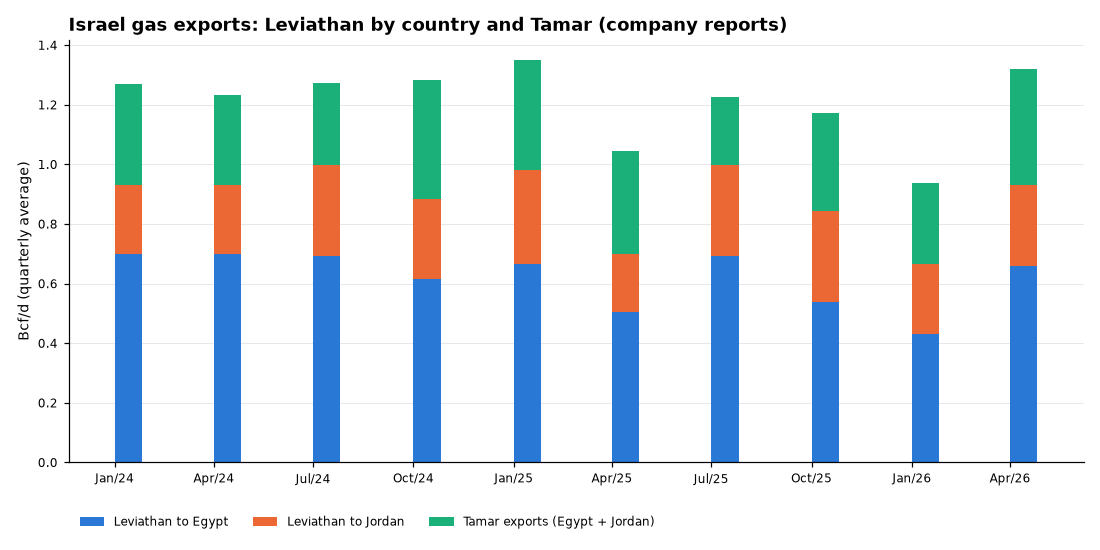
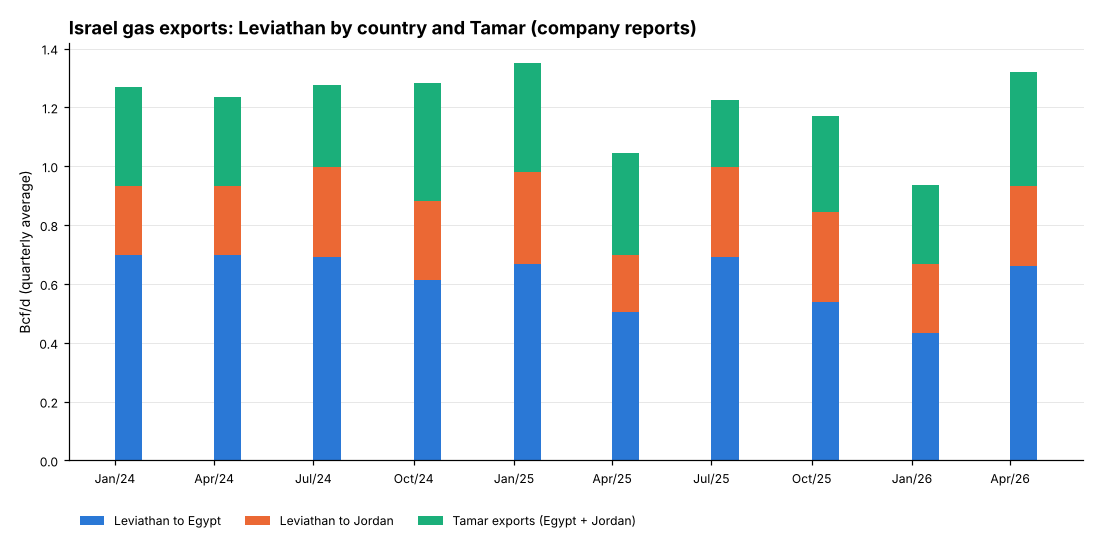
Israel gas by-field chart: only quarters all three fields report (Q1 2024 on)
Claude-Session: https://claude.ai/code/session_01XS9pXkbpAjJDvyN5GQKL1R

diff --git a/add_charts.py b/add_charts.py
@@ -3585,7 +3585,8 @@ def israel_gas_fields(p):
     exp = bcfd({"Leviathan_Egypt_bcm": "Leviathan to Egypt", "Leviathan_Jordan_bcm": "Leviathan to Jordan",
                 "Tamar_Export_bcm": "Tamar exports (Egypt + Jordan)"})
     exp = exp[exp.notna().all(axis=1)]
-    return [spec("By field", fields.dropna(how="all"), "Israel gas sales by field (company reports, 100% of field)",
+    fields = fields[fields.notna().all(axis=1)]   # only quarters all three fields report (Q1 2024 on)
+    return [spec("By field", fields, "Israel gas sales by field (company reports, 100% of field)",
                  "Bcf/d (quarterly average)", "stacked_bar"),
             spec("Leviathan by destination", lev.dropna(how="all"), "Leviathan gas sales by destination (NewMed)",
                  "Bcf/d (quarterly average)", "stacked_bar"),

diff --git a/output/Python Scripts/add_charts.py b/output/Python Scripts/add_charts.py
@@ -3585,7 +3585,8 @@ def israel_gas_fields(p):
     exp = bcfd({"Leviathan_Egypt_bcm": "Leviathan to Egypt", "Leviathan_Jordan_bcm": "Leviathan to Jordan",
                 "Tamar_Export_bcm": "Tamar exports (Egypt + Jordan)"})
     exp = exp[exp.notna().all(axis=1)]
-    return [spec("By field", fields.dropna(how="all"), "Israel gas sales by field (company reports, 100% of field)",
+    fields = fields[fields.notna().all(axis=1)]   # only quarters all three fields report (Q1 2024 on)
+    return [spec("By field", fields, "Israel gas sales by field (company reports, 100% of field)",
                  "Bcf/d (quarterly average)", "stacked_bar"),
             spec("Leviathan by destination", lev.dropna(how="all"), "Leviathan gas sales by destination (NewMed)",
                  "Bcf/d (quarterly average)", "stacked_bar"),
